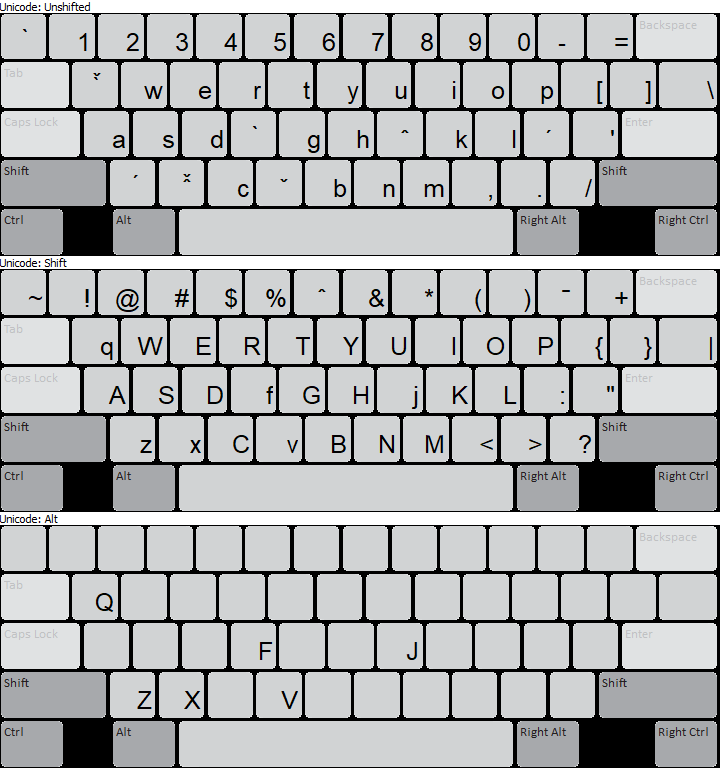
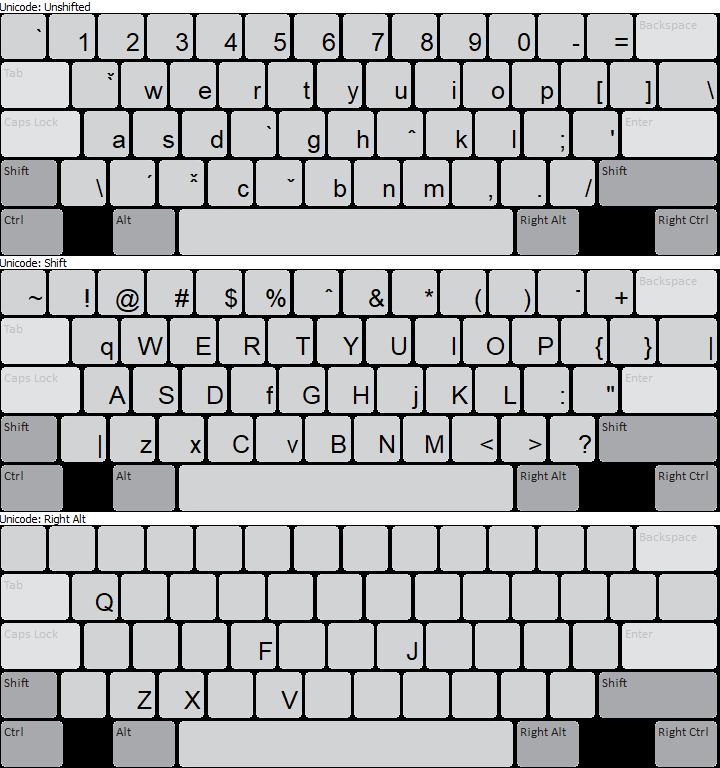
correct .keyboard_info and add version 1.4 files

diff --git a/release/k/kayan/source/kayan-layout.js b/release/k/kayan/source/kayan-layout.js
@@ -168,12 +168,12 @@
                   },
                   {
                     "text": ":",
-                    "id": "T_GOOD",
+                    "id": "K_COLON",
                     "layer": "shift"
                   },
                   {
-                    "text": "U_0301",
-                    "id": "T_GOOD"
+                    "text": ";",
+                    "id": "K_COLON"
                   }
                 ]
               },
@@ -385,12 +385,12 @@
                   },
                   {
                     "text": ":",
-                    "id": "T_COLON",
+                    "id": "K_COLON",
                     "layer": "shift"
                   },
                   {
                     "text": ";",
-                    "id": "T_COLON",
+                    "id": "K_COLON",
                     "layer": "default"
                   }
                 ]

diff --git a/release/k/kayan/source/readme.htm b/release/k/kayan/source/readme.htm
@@ -7,7 +7,7 @@
 <body>
 <h1>Kayǎn Keyboard</h1>
 <p>Copyright (C) 2017 SIL International</p>
-<p>Version 1.3</p>
+<p>Version 1.4</p>
 <p>For typing the latin-based script of the Kayǎn people of Myanmar.</p>
 </body>
 </html>

diff --git a/release/k/kayan/HISTORY.md b/release/k/kayan/HISTORY.md
@@ -1,4 +1,4 @@
-Change History
+Change History
 =======================
 
 1.0 (20 July 2017)
@@ -28,3 +28,9 @@ The display and output on those keys were different but now are the same.
 
 Changed the U+02CA to U+0301.
 Despite the visual look of U+02CA, U+0301 was strongly advised to be used until features can be made in later releases of fonts. Then the diacritics will stack correctly and publications will look right.
+
+-----------------
+1.4 (16 Oct 2017)
+-----------------
+
+Realized that the semicolon is used in the Kayǎn orthography so added it back. It had been removed for the U+02CA value but that was a temporary fix. So now is a good time to put the semicolon back in its original place.

diff --git a/release/k/kayan/README.md b/release/k/kayan/README.md
@@ -3,7 +3,7 @@
 
 Copyright (C) 2017 SIL International
 
-Version 1.3
+Version 1.4
 
 For typing the latin-based script of the Kayǎn people of Myanmar.
 
